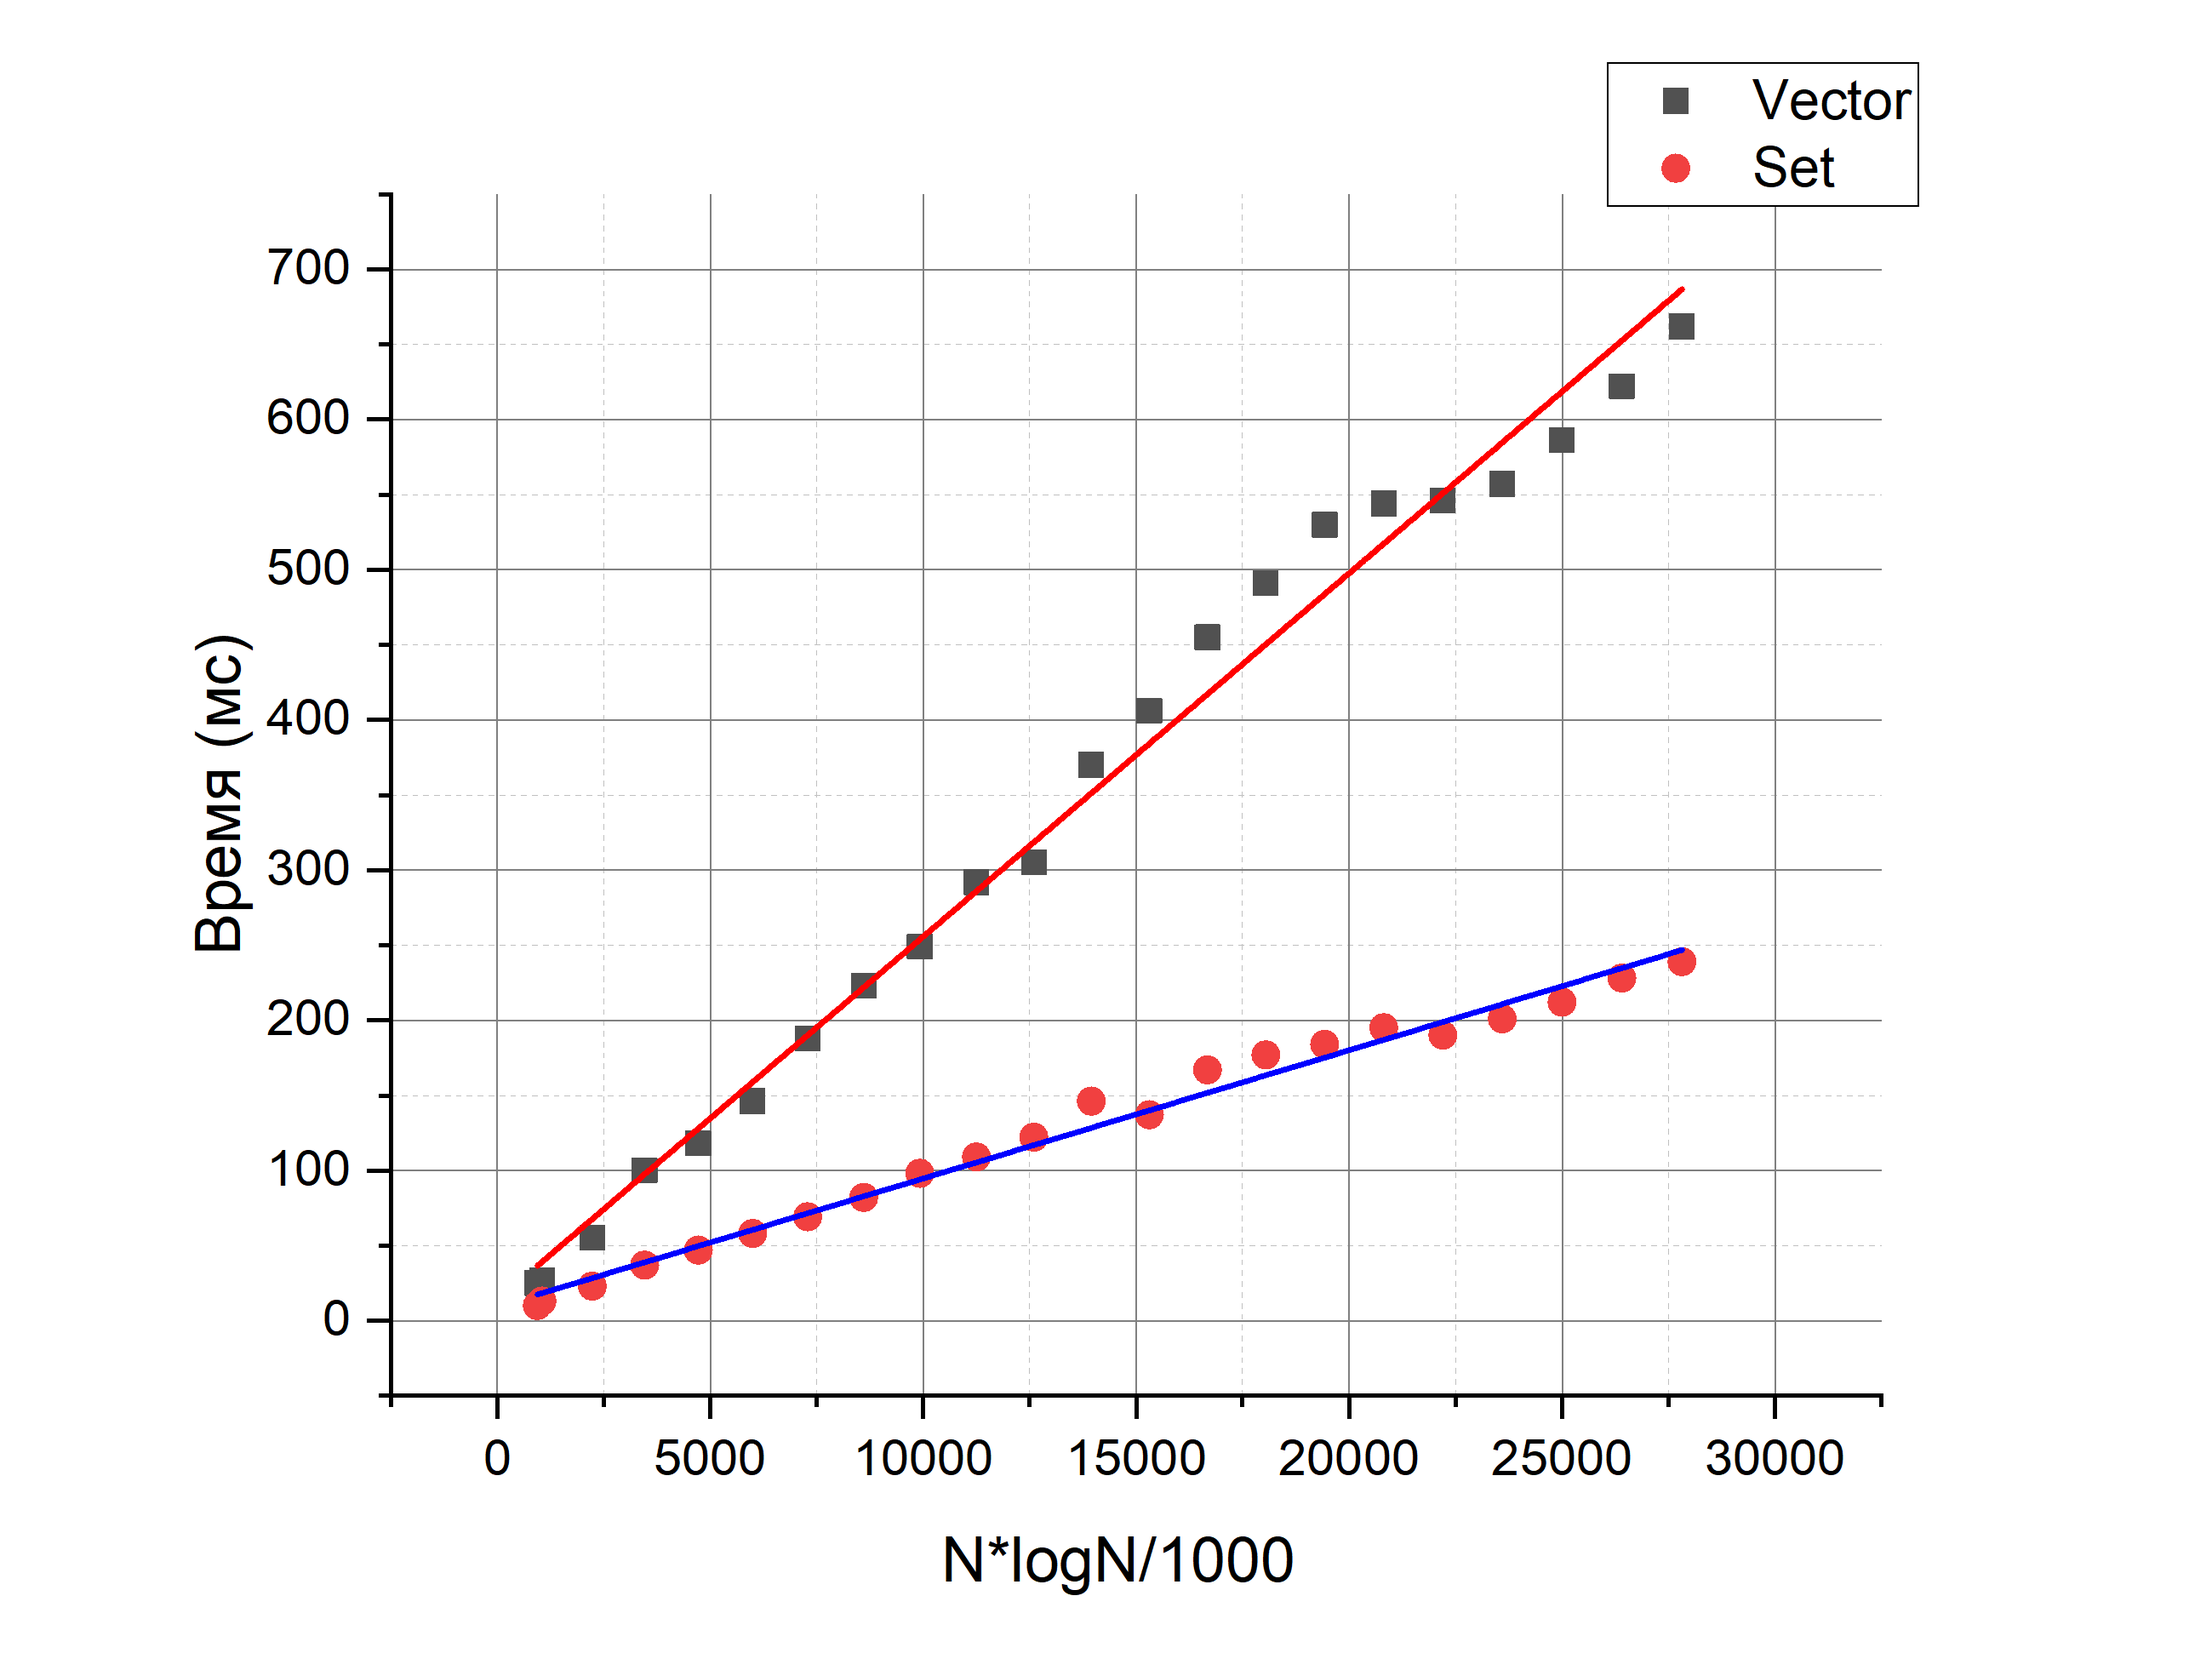
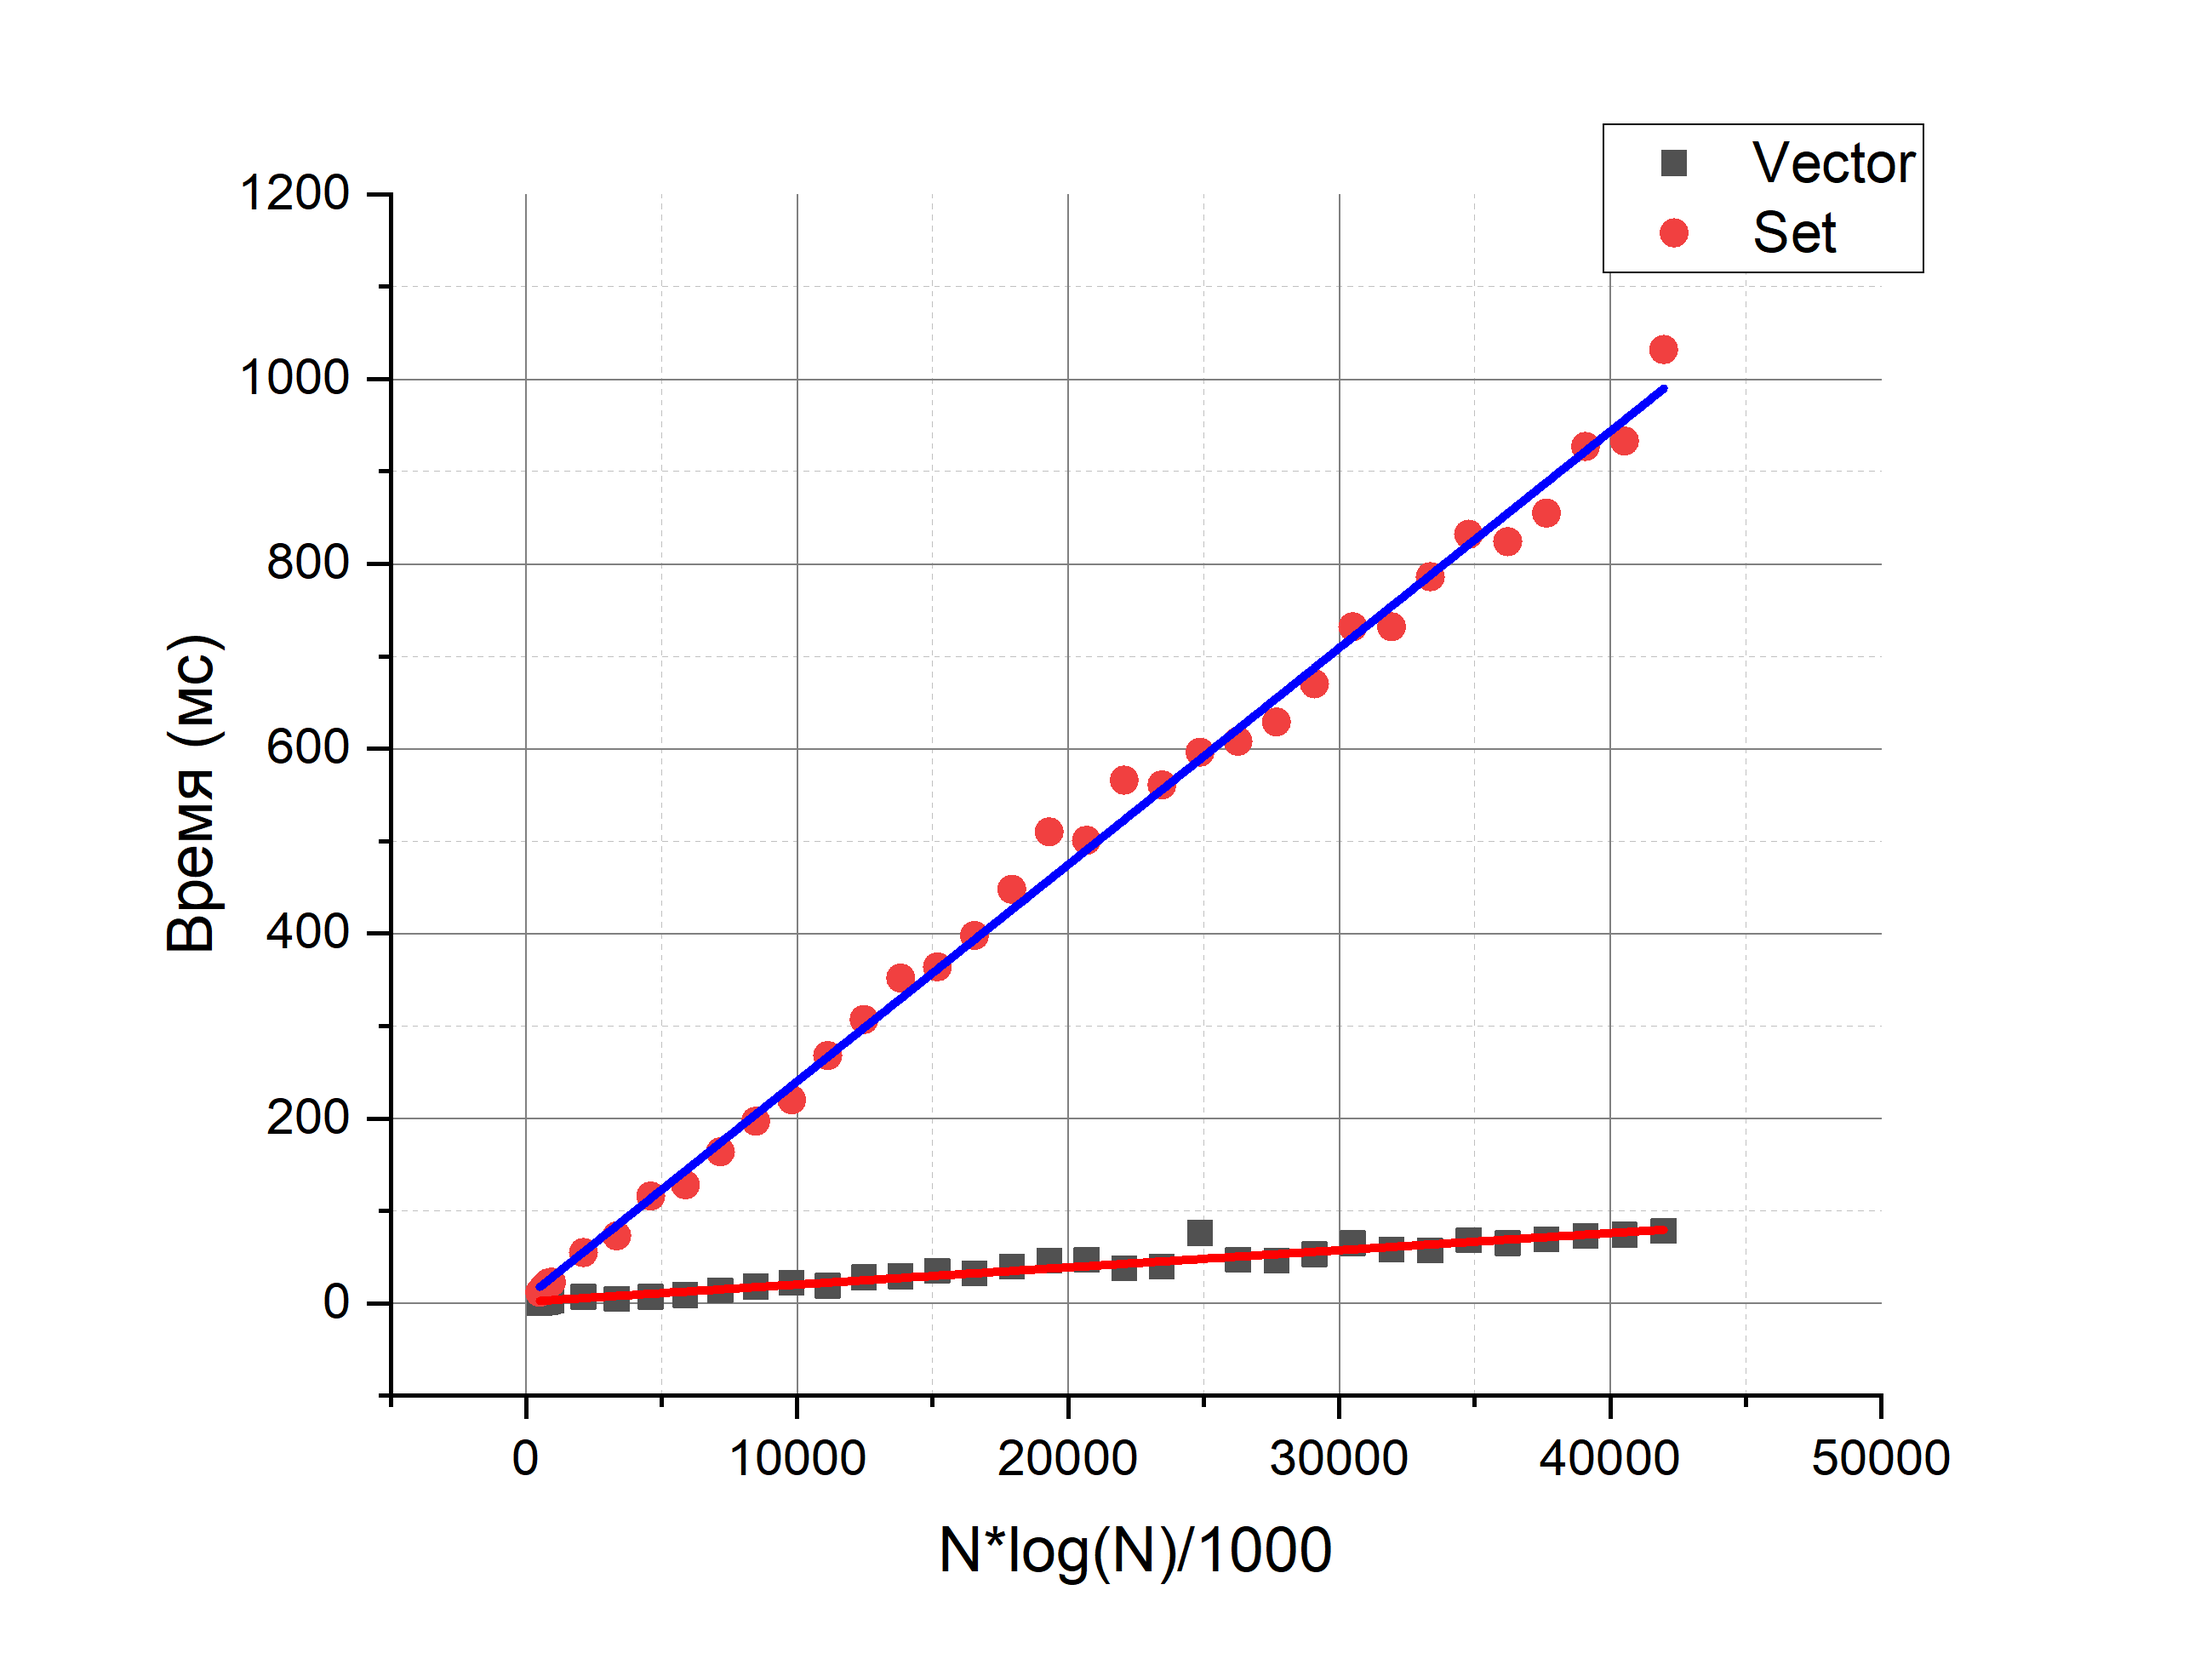
Redone 4 first tasks

diff --git a/homework_3/Task4.cpp b/homework_3/Task4.cpp
@@ -4,6 +4,7 @@
 #include <vector>
 #include <set>
 #include <fstream>
+#include <chrono>
 
 
 unsigned int RSHash(const char* str, unsigned int length)
@@ -147,6 +148,22 @@ unsigned int APHash(const char* str, unsigned int length)
     return hash;
 }
 
+std::set <std::string> makeRandomWords (size_t length) {
+    std::uniform_int_distribution letter(97, 122);
+    std::default_random_engine e(static_cast <std::size_t>
+                                 (std::chrono::system_clock::now().time_since_epoch().count()));
+
+    std::set <std::string> words;
+
+    for (std::string str(length, '_'); words.size() < 5000000u; words.insert(str)) {
+        for (auto &c : str)
+            c = letter(e);
+    }
+
+    return words;
+}
+
+
 
 int main () {
     std::vector<std::set<int>> codes (9);
@@ -154,46 +171,37 @@ int main () {
 
     std::ofstream file ("collisions_2.txt");
 
-    std::vector<std::string> letters(26, "a");
-    for (int i = 0; i < 26; i++) {
-        letters[i] = 'a' + i;
-    }
-
-    std::vector<std::string> words;
-    words.reserve(12000000);
-    for (const auto& i : letters) {
-        for (const auto& j : letters) {
-            for (const auto& k : letters) {
-                for (const auto& l : letters) {
-                    for (const auto& m : letters) words.push_back(i + j + k + l + m);
-                }
-            }
-        }
-    }
+    std::set<std::string> words = makeRandomWords(10);
 
     int size = 100000;
-    for (int i = 0; i < 12; ++i) {
-        std::cout << i+1 << "/12\n";
-        for (int j = 0; j < 9; j++) codes[j].clear();
+    for (int i = 0; i < 11; ++i) {
+        std::cout << i+1 << "/11\n";
+        for (auto& code : codes) code.clear();
 
+        auto it = words.begin();
         for (int j = 0; j < size; ++j) {
-            codes[0].insert(RSHash(words[j].c_str(), words[j].length()));
-            codes[1].insert(JSHash(words[j].c_str(), words[j].length()));
-            codes[2].insert(PJWHash(words[j].c_str(), words[j].length()));
-            codes[3].insert(ELFHash(words[j].c_str(), words[j].length()));
-            codes[4].insert(BKDRHash(words[j].c_str(), words[j].length()));
-            codes[5].insert(SDBMHash(words[j].c_str(), words[j].length()));
-            codes[6].insert(DJBHash(words[j].c_str(), words[j].length()));
-            codes[7].insert(DEKHash(words[j].c_str(), words[j].length()));
-            codes[8].insert(APHash(words[j].c_str(), words[j].length()));
+            codes[0].insert(RSHash((*it).c_str(), (*it).length()));
+            codes[1].insert(JSHash((*it).c_str(), (*it).length()));
+            codes[2].insert(PJWHash((*it).c_str(), (*it).length()));
+            codes[3].insert(ELFHash((*it).c_str(), (*it).length()));
+            codes[4].insert(BKDRHash((*it).c_str(), (*it).length()));
+            codes[5].insert(SDBMHash((*it).c_str(), (*it).length()));
+            codes[6].insert(DJBHash((*it).c_str(), (*it).length()));
+            codes[7].insert(DEKHash((*it).c_str(), (*it).length()));
+            codes[8].insert(APHash((*it).c_str(), (*it).length()));
+
+            it++;
         }
 
         for (int k = 0; k < 9; ++k) {
             file << size << " " << titles[k] << ": " << size - codes[k].size() << " ; ";
         }
         file << std::endl;
-        
+
         size += 100000;
-        if (i >= 9) size += 1000000;
     }
+
+    // График в файле graph_task_4
+    // PJW и ELF сверху, совпадают, следующая после них - DEK, остальные близки к друг другу
+    // и с меньшим числом коллизий, чем предыдущие три.
 }

diff --git a/homework_3/Task3.cpp b/homework_3/Task3.cpp
@@ -4,6 +4,7 @@
 #include <random>
 #include <set>
 #include <fstream>
+#include <chrono>
 
 template < typename T >
 void hash_combine(std::size_t & seed, const T & value) noexcept
@@ -32,6 +33,20 @@ std::size_t hash_value(const Types & ... args) noexcept
     return seed;
 }
 
+std::set <std::string> makeRandomWords (size_t length) {
+    std::uniform_int_distribution letter(97, 122);
+    std::default_random_engine e(static_cast <std::size_t>
+        (std::chrono::system_clock::now().time_since_epoch().count()));
+
+    std::set <std::string> words;
+
+    for (std::string str(length, '_'); words.size() < 6000000u; words.insert(str)) {
+        for (auto &c : str)
+            c = letter(e);
+    }
+
+    return words;
+}
 
 
 int main() {
@@ -40,36 +55,40 @@ int main() {
 
     // This is variables for 'struct'
     std::string name;
-    int age;
-    double height;
+    int some_int;
+    double some_double;
     bool is_drunk;
     char symbol;
 
-    for (int i = 0; i < 26; i++) {
-        letters[i] = 'a' + i;
-    }
+    std::set<std::string> words = makeRandomWords(10);
 
     std::set<int> codes;
+
     std::random_device rd;
     std::mt19937 mersenne(rd());
+    std::uniform_int_distribution<> distrib_int(-INT32_MAX, INT32_MAX);
+    std::uniform_real_distribution<> distrib_double(-1.8e180, 1.8e180);
+    std::bernoulli_distribution distrib_bool(0.5);
+    std::uniform_int_distribution<> distrib_char(0, 65535);
 
     int size = 300000;
 
-    for (int j = 0; j < 40; ++j) {
+    for (int j = 0; j < 45; ++j) {
 
         if (j % 5 == 4) std::cout << j+1 << "/40" << std::endl;
 
         codes.clear();
+        auto it = words.begin();
         for (int i = 0; i < size; ++i) {
-            name.clear();
-            height = mersenne() / double(mersenne());
-            age = mersenne();
-            is_drunk = mersenne();
-            symbol = mersenne();
-            for (int k = 0; k < 7; ++k) {
-                name += letters[mersenne() % 26];
-            }
-            codes.insert(hash_value(name, height, age, is_drunk, symbol));
+
+            name = *it;
+            some_double = distrib_double(mersenne);
+            some_int = distrib_int(mersenne);
+            is_drunk = distrib_bool(mersenne);
+            symbol = distrib_char(mersenne);
+            codes.insert(hash_value(name, some_int, some_double, is_drunk, symbol));
+
+            it++;
         }
         file << size << " " << size - codes.size() << std::endl;
         size += 100000;

diff --git a/homework_3/Task2.cpp b/homework_3/Task2.cpp
@@ -24,38 +24,34 @@ size_t double_hash (double source) {
 int main () {
     std::random_device rd;
     std::mt19937_64 mersenne(rd());
+    std::uniform_real_distribution<> dis(-1.8e180, 1.8e180);
 
     std::set<size_t> keys;
-
-    union Double {
-        double db;
-        int64_t integer;
-    };
-
-    Double buffer{};
 
     int size = 100000;
 
     for (int i = 0; i < 10; ++i) {
+        keys.clear();
+
         for (int j = 0; j < size; ++j) {
-            buffer.integer = mersenne();
-            keys.insert(double_hash(buffer.db) % size);
+            keys.insert(double_hash(dis(mersenne)) % size);
         }
+
         std::cout << "Size: " << size << ", number of collisions: " << size - keys.size() << "\n";
         size += 100000;
     }
 
     // Результаты:
-//    Size: 100000, number of collisions: 36774
-//    Size: 200000, number of collisions: 50463
-//    Size: 300000, number of collisions: 55443
-//    Size: 400000, number of collisions: 57132
-//    Size: 500000, number of collisions: 57875
-//    Size: 600000, number of collisions: 58154
-//    Size: 700000, number of collisions: 58364
-//    Size: 800000, number of collisions: 57628
-//    Size: 900000, number of collisions: 58054
-//    Size: 1000000, number of collisions: 58157
+//    Size: 100000, number of collisions: 52317
+//    Size: 200000, number of collisions: 104574
+//    Size: 300000, number of collisions: 156759
+//    Size: 400000, number of collisions: 209496
+//    Size: 500000, number of collisions: 261841
+//    Size: 600000, number of collisions: 314474
+//    Size: 700000, number of collisions: 367219
+//    Size: 800000, number of collisions: 419488
+//    Size: 900000, number of collisions: 471813
+//    Size: 1000000, number of collisions: 523887
 //    Кажется, что достаточно равномерно
 
 }

diff --git a/homework_3/Task1.cpp b/homework_3/Task1.cpp
@@ -3,14 +3,14 @@
 #include <set>
 
 int main() {
-    int size = 20000;
+    int size = 100000;
     std::ofstream file ("times.txt");
     Timer t;
 
     std::vector<int> vec;
     std::set <int> set;
 
-    for (int i = 0; i < 30; i++) {
+    for (int i = 0; i < 35; i++) {
         vec.clear();
         set.clear();
 
@@ -20,6 +20,7 @@ int main() {
         for (int j = 0; j < size; ++j) {
             vec[j] = size - j;
         }
+
         t.start_timer();
         std::sort(vec.begin(), vec.end());
         t.print_time(file);
@@ -28,20 +29,19 @@ int main() {
 
         t.start_timer();
         for (int k = 0; k < size; ++k) {
-            set.insert(size - i);
+            set.insert(size - k);
         }
         t.print_time(file);
 
         t.reset_timer();
 
         file << "\n";
-        if (i >= 9) size += 200000;
+        if (i >= 4) size += 200000;
         else size += 20000;
     }
 
 
-    // Я пробовал на еще больших числах запускать, set всегда был быстрее вектора, значит можно сделать вывод,
-    // что пороговое N, при котором меняется лидер либо велико, либо его нет
+    // Vector всегда быстрее, чем set
     // График в файле graph_task_1.png
 
 }
